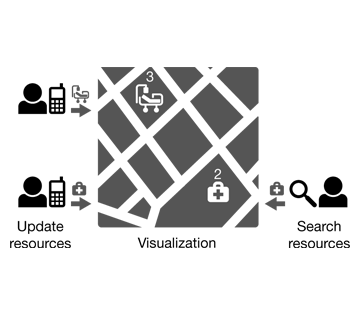
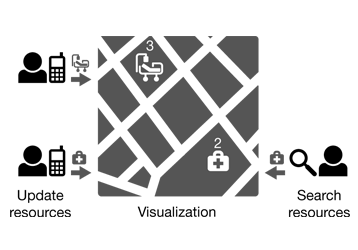
updated home page that requested by marketing team

diff --git a/app/assets/stylesheets/application.css b/app/assets/stylesheets/application.css
@@ -38,8 +38,8 @@
 
 .homepage .illustration {
   background: url("/assets/data_collection.png") no-repeat scroll 0 0 transparent;
-  height: 406px;
-  width: 551px;
+  height: 286px;
+  width: 401px;
 }
 
 .get-update {

diff --git a/config/application.rb b/config/application.rb
@@ -60,7 +60,7 @@ module ResourceMap
 
     config.action_mailer.delivery_method = :sendmail
 
-    config.google_analytics = ''
+    config.google_analytics = 'UA-17030081-1'
     config.version_name = File.read('REVISION').strip rescue 'Development'
   end
 end
